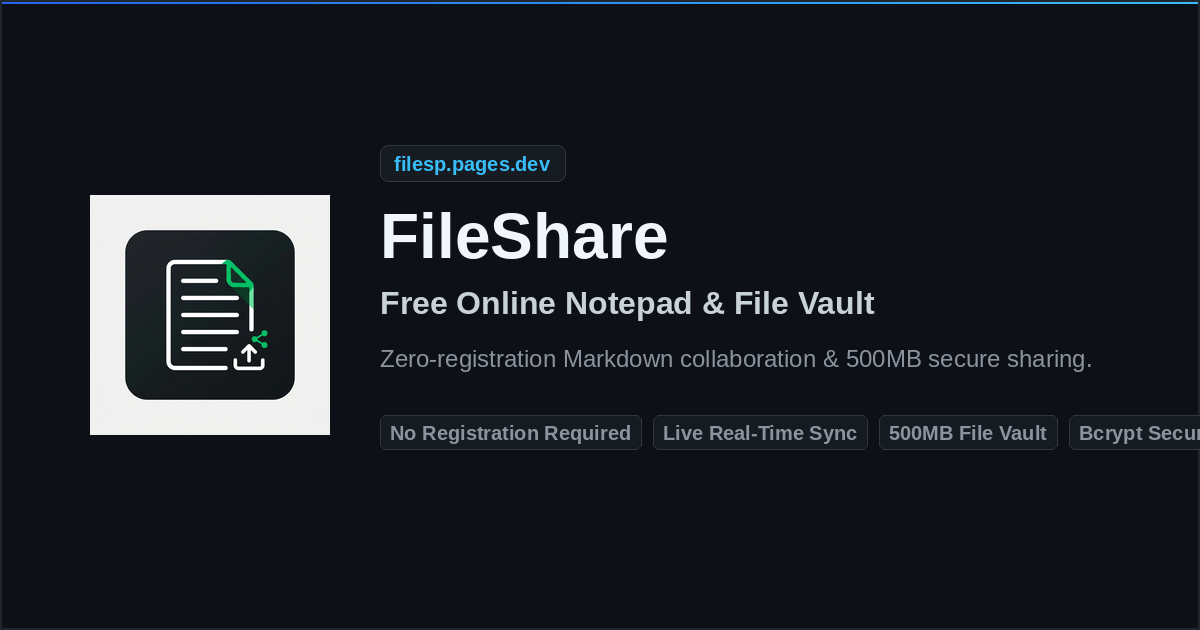
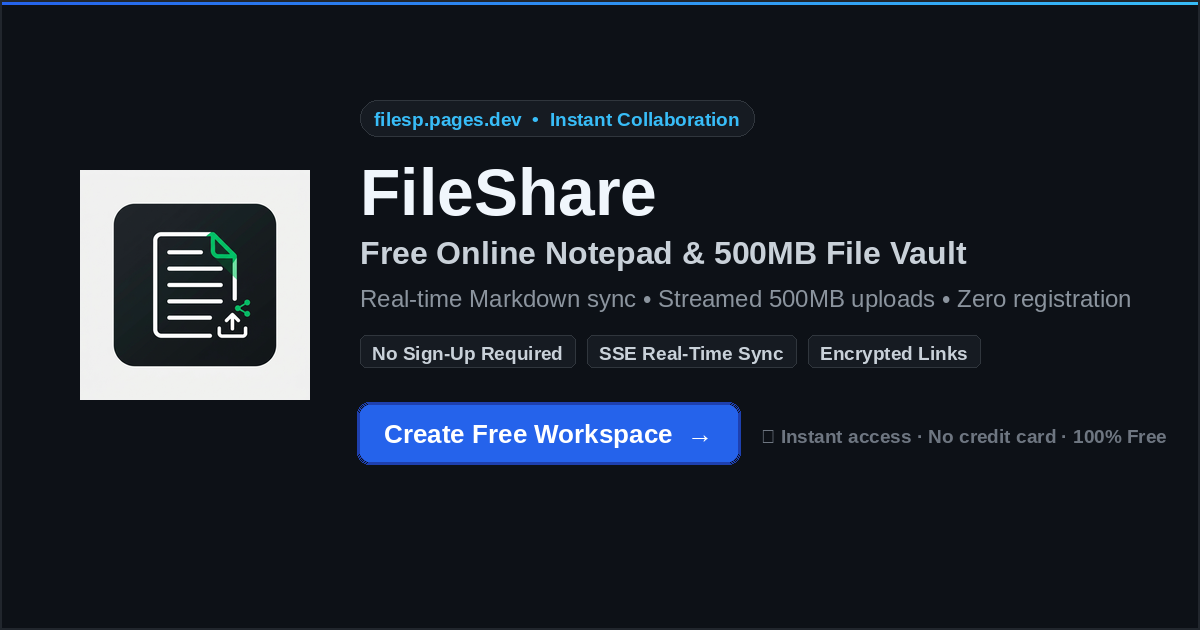
fix(seo): shorten meta titles below 60 chars and add high-converting CTA to og-image

Changed region(s): [[0.0617, 0.181, 1.0, 0.754], [0.3083, 0.5429, 0.925, 0.6032], [0.3083, 0.4524, 0.9558, 0.5127]]

diff --git a/src/app/privacy/page.tsx b/src/app/privacy/page.tsx
@@ -7,13 +7,13 @@ import { getAppUrl, getDefaultOgImages } from "@/lib/seo";
 const appUrl = getAppUrl();
 
 export const metadata: Metadata = {
-  title: "Privacy Policy — GDPR & India DPDP Act 2023 Compliant — FileShare",
+  title: "Privacy Policy — GDPR & DPDP Compliant | FileShare",
   description: "Comprehensive Privacy Policy for FileShare (SHP Technology). Fully compliant with the EU General Data Protection Regulation (GDPR) and India's Digital Personal Data Protection (DPDP) Act, 2023.",
   alternates: {
     canonical: `${appUrl}/privacy`,
   },
   openGraph: {
-    title: "Privacy Policy — GDPR & India DPDP Act 2023 Compliant — FileShare",
+    title: "Privacy Policy — GDPR & DPDP Compliant | FileShare",
     description: "Learn how FileShare protects your personal data in compliance with GDPR and India's DPDP Act 2023.",
     url: `${appUrl}/privacy`,
     siteName: "FileShare",
@@ -26,7 +26,7 @@ export const metadata: Metadata = {
   },
   twitter: {
     card: "summary_large_image",
-    title: "Privacy Policy — GDPR & India DPDP Act 2023 Compliant — FileShare",
+    title: "Privacy Policy — GDPR & DPDP Compliant | FileShare",
     description: "Learn how FileShare protects your personal data in compliance with GDPR and India's DPDP Act 2023.",
     images: [`${appUrl}/og-image.png`],
   },

diff --git a/src/app/layout.tsx b/src/app/layout.tsx
@@ -22,7 +22,7 @@ export const viewport: Viewport = {
 export const metadata: Metadata = {
   metadataBase: new URL(appUrl),
   title: {
-    default: "Free Online Notepad Without Login & File Sharing | FileShare",
+    default: "Free Online Notepad & File Sharing | FileShare",
     template: "%s | FileShare",
   },
   description: "Free online notepad without login for real-time Markdown collaboration and secure file sharing up to 500MB. Create a workspace instantly with no registration.",
@@ -107,7 +107,7 @@ export const metadata: Metadata = {
   },
   manifest: "/manifest.json",
   openGraph: {
-    title: "Free Online Notepad Without Login & File Sharing | FileShare",
+    title: "Free Online Notepad & File Sharing | FileShare",
     description: "Collaborate on Markdown notes in real time and share files up to 500MB without registration.",
     url: appUrl,
     siteName: "FileShare",
@@ -120,7 +120,7 @@ export const metadata: Metadata = {
   },
   twitter: {
     card: "summary_large_image",
-    title: "Free Online Notepad Without Login & File Sharing | FileShare",
+    title: "Free Online Notepad & File Sharing | FileShare",
     description: "Real-time Markdown notes and secure 500MB file sharing with no sign-up required.",
     images: [`${appUrl}/og-image.png`],
   },

diff --git a/src/app/about/page.tsx b/src/app/about/page.tsx
@@ -20,13 +20,13 @@ import { ADSENSE_SLOTS } from "@/lib/ads";
 const appUrl = getAppUrl();
 
 export const metadata: Metadata = {
-  title: "About FileShare — Engineering Mission, Architecture & Privacy Values",
+  title: "About FileShare — Engineering Mission & Privacy",
   description: "Learn why FileShare was created: our engineering philosophy, privacy-first ephemeral architecture, open-source values, and transparent platform infrastructure.",
   alternates: {
     canonical: `${appUrl}/about`,
   },
   openGraph: {
-    title: "About FileShare — Engineering Mission, Architecture & Privacy Values",
+    title: "About FileShare — Engineering Mission & Privacy",
     description: "Learn why FileShare was created: our engineering philosophy, ephemeral architecture, and privacy values.",
     url: `${appUrl}/about`,
     siteName: "FileShare",
@@ -39,7 +39,7 @@ export const metadata: Metadata = {
   },
   twitter: {
     card: "summary_large_image",
-    title: "About FileShare — Engineering Mission, Architecture & Privacy Values",
+    title: "About FileShare — Engineering Mission & Privacy",
     description: "Learn why FileShare was created: our engineering philosophy, ephemeral architecture, and privacy values.",
     images: [`${appUrl}/og-image.png`],
   },

diff --git a/src/app/page.tsx b/src/app/page.tsx
@@ -7,7 +7,7 @@ const appUrl = getAppUrl();
 
 export const metadata: Metadata = {
   metadataBase: new URL(appUrl),
-  title: "Free Online Notepad Without Login & File Sharing | FileShare",
+  title: "Free Online Notepad & File Sharing | FileShare",
   description: "Free online notepad without login for real-time Markdown collaboration and secure file sharing up to 500MB. Create a workspace instantly with no registration.",
   keywords: [
     "online notepad without login",
@@ -44,7 +44,7 @@ export const metadata: Metadata = {
     canonical: appUrl,
   },
   openGraph: {
-    title: "Free Online Notepad Without Login & File Sharing | FileShare",
+    title: "Free Online Notepad & File Sharing | FileShare",
     description: "Real-time Markdown notes and secure file sharing up to 500MB without registration.",
     url: appUrl,
     siteName: "FileShare",
@@ -57,7 +57,7 @@ export const metadata: Metadata = {
   },
   twitter: {
     card: "summary_large_image",
-    title: "Free Online Notepad Without Login & File Sharing | FileShare",
+    title: "Free Online Notepad & File Sharing | FileShare",
     description: "Create a real-time Markdown workspace and share files up to 500MB with no sign-up.",
     images: [`${appUrl}/og-image.png`],
   },
